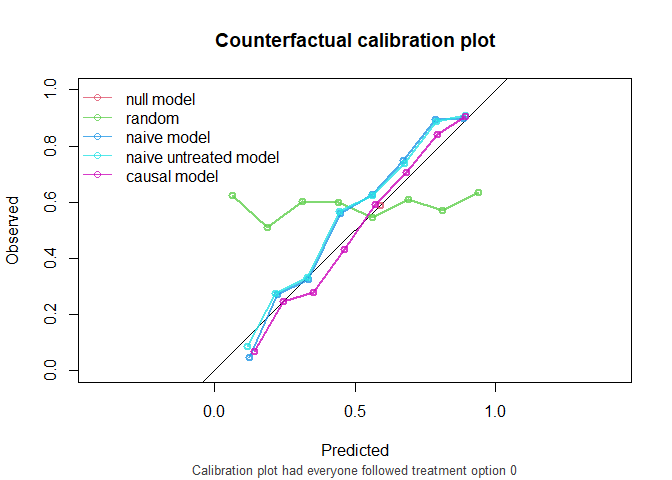
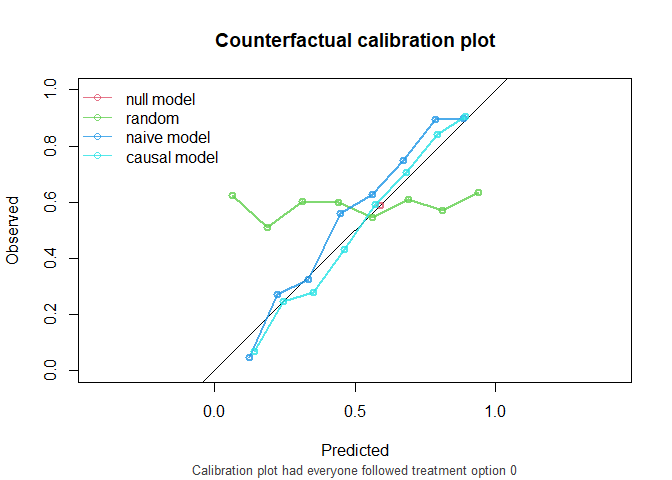
simplified readme

diff --git a/README.md b/README.md
@@ -54,9 +54,6 @@ using the development data.
 # naive model, not accounting for confounding variable L
 naive_model <- glm(Y ~ A + P, family = "binomial", data = df_dev)
 
-# model targeting untreated risk, not accounting for confounding
-naive_untreated_model <- glm(Y ~ P, family = "binomial", data = df_dev[df_dev$A == 0, ])
-
 # causal model, accounting for L by IP-weighting
 trt_model <- glm(A ~ L, family = "binomial", data = df_dev)
 propensity_score <- predict(trt_model, type = "response")
@@ -111,7 +108,6 @@ CFscore(
   object = list(
     "random" = random_predictions,
     "naive model" = naive_model,
-    "naive untreated model" = naive_untreated_model,
     "causal model" = causal_model
   ),
   data = df_val, 
@@ -131,23 +127,22 @@ CFscore(
 #> - Correctly specified propensity formula. Estimated treatment model is
 #>  logit(A) = 0.49 + 0.96*L. See also $ipt$model
 #> 
-#>                  model   auc brier oeratio
-#>             null model 0.500 0.242    1.00
-#>                 random 0.512 0.327    1.19
-#>            naive model 0.760 0.199    1.12
-#>  naive untreated model 0.760 0.198    1.12
-#>           causal model 0.760 0.195    1.01
+#>         model   auc brier oeratio
+#>    null model 0.500 0.242    1.00
+#>        random 0.512 0.327    1.19
+#>   naive model 0.760 0.199    1.12
+#>  causal model 0.760 0.195    1.01
 ```
 
 <img src="man/figures/README-unnamed-chunk-6-1.png" width="100%" />
 
 As we see, the causal model has best calibration and Brier score.
 
-Note that the AUC of the naive models and the causal model are equal.
-AUC is driven entirely by how individuals’ model predictions are ranked,
-not by the magnitude of the predictions. In this simple setting, P is
-the only variable driving prognostic differences between individuals (in
-a pseudopopulation where we counterfactually set everyone’s treatment
+Note that the AUC of the naive model and the causal model are equal. AUC
+is driven entirely by how individuals’ model predictions are ranked, not
+by the magnitude of the predictions. In this simple setting, P is the
+only variable driving prognostic differences between individuals (in a
+pseudopopulation where we counterfactually set everyone’s treatment
 status to $0$). While the models have different coefficients for P,
 individuals are ranked in exactly the same way.
 
@@ -160,7 +155,6 @@ CFscore(
   object = list(
     "random" = random_predictions,
     "naive model" = naive_model,
-    "naive untreated model" = naive_untreated_model,
     "causal model" = causal_model
   ),
   data = df_val, 
@@ -175,30 +169,27 @@ CFscore(
 #> 
 #> auc
 #> 
-#>                  model   auc lower upper
-#>             null model 0.500 0.500 0.500
-#>                 random 0.512 0.479 0.540
-#>            naive model 0.760 0.726 0.782
-#>  naive untreated model 0.760 0.726 0.782
-#>           causal model 0.760 0.726 0.782
+#>         model   auc lower upper
+#>    null model 0.500 0.500 0.500
+#>        random 0.512 0.479 0.540
+#>   naive model 0.760 0.726 0.782
+#>  causal model 0.760 0.726 0.782
 #> 
 #> brier
 #> 
-#>                  model brier lower upper
-#>             null model 0.242 0.237 0.245
-#>                 random 0.327 0.312 0.348
-#>            naive model 0.199 0.192 0.209
-#>  naive untreated model 0.198 0.191 0.209
-#>           causal model 0.195 0.187 0.204
+#>         model brier lower upper
+#>    null model 0.242 0.237 0.245
+#>        random 0.327 0.312 0.348
+#>   naive model 0.199 0.192 0.209
+#>  causal model 0.195 0.187 0.204
 #> 
 #> oeratio
 #> 
-#>                  model oeratio lower upper
-#>             null model    1.00 0.977  1.05
-#>                 random    1.19 1.147  1.25
-#>            naive model    1.12 1.100  1.18
-#>  naive untreated model    1.12 1.100  1.18
-#>           causal model    1.01 0.984  1.06
+#>         model oeratio lower upper
+#>    null model    1.00 0.977  1.05
+#>        random    1.19 1.147  1.25
+#>   naive model    1.12 1.100  1.18
+#>  causal model    1.01 0.984  1.06
 ```
 
-<img src="man/figures/README-unnamed-chunk-7-1.png" width="100%" /><img src="man/figures/README-unnamed-chunk-7-2.png" width="100%" /><img src="man/figures/README-unnamed-chunk-7-3.png" width="100%" /><img src="man/figures/README-unnamed-chunk-7-4.png" width="100%" /><img src="man/figures/README-unnamed-chunk-7-5.png" width="100%" /><img src="man/figures/README-unnamed-chunk-7-6.png" width="100%" />
+<img src="man/figures/README-unnamed-chunk-7-1.png" width="100%" /><img src="man/figures/README-unnamed-chunk-7-2.png" width="100%" /><img src="man/figures/README-unnamed-chunk-7-3.png" width="100%" /><img src="man/figures/README-unnamed-chunk-7-4.png" width="100%" /><img src="man/figures/README-unnamed-chunk-7-5.png" width="100%" />
